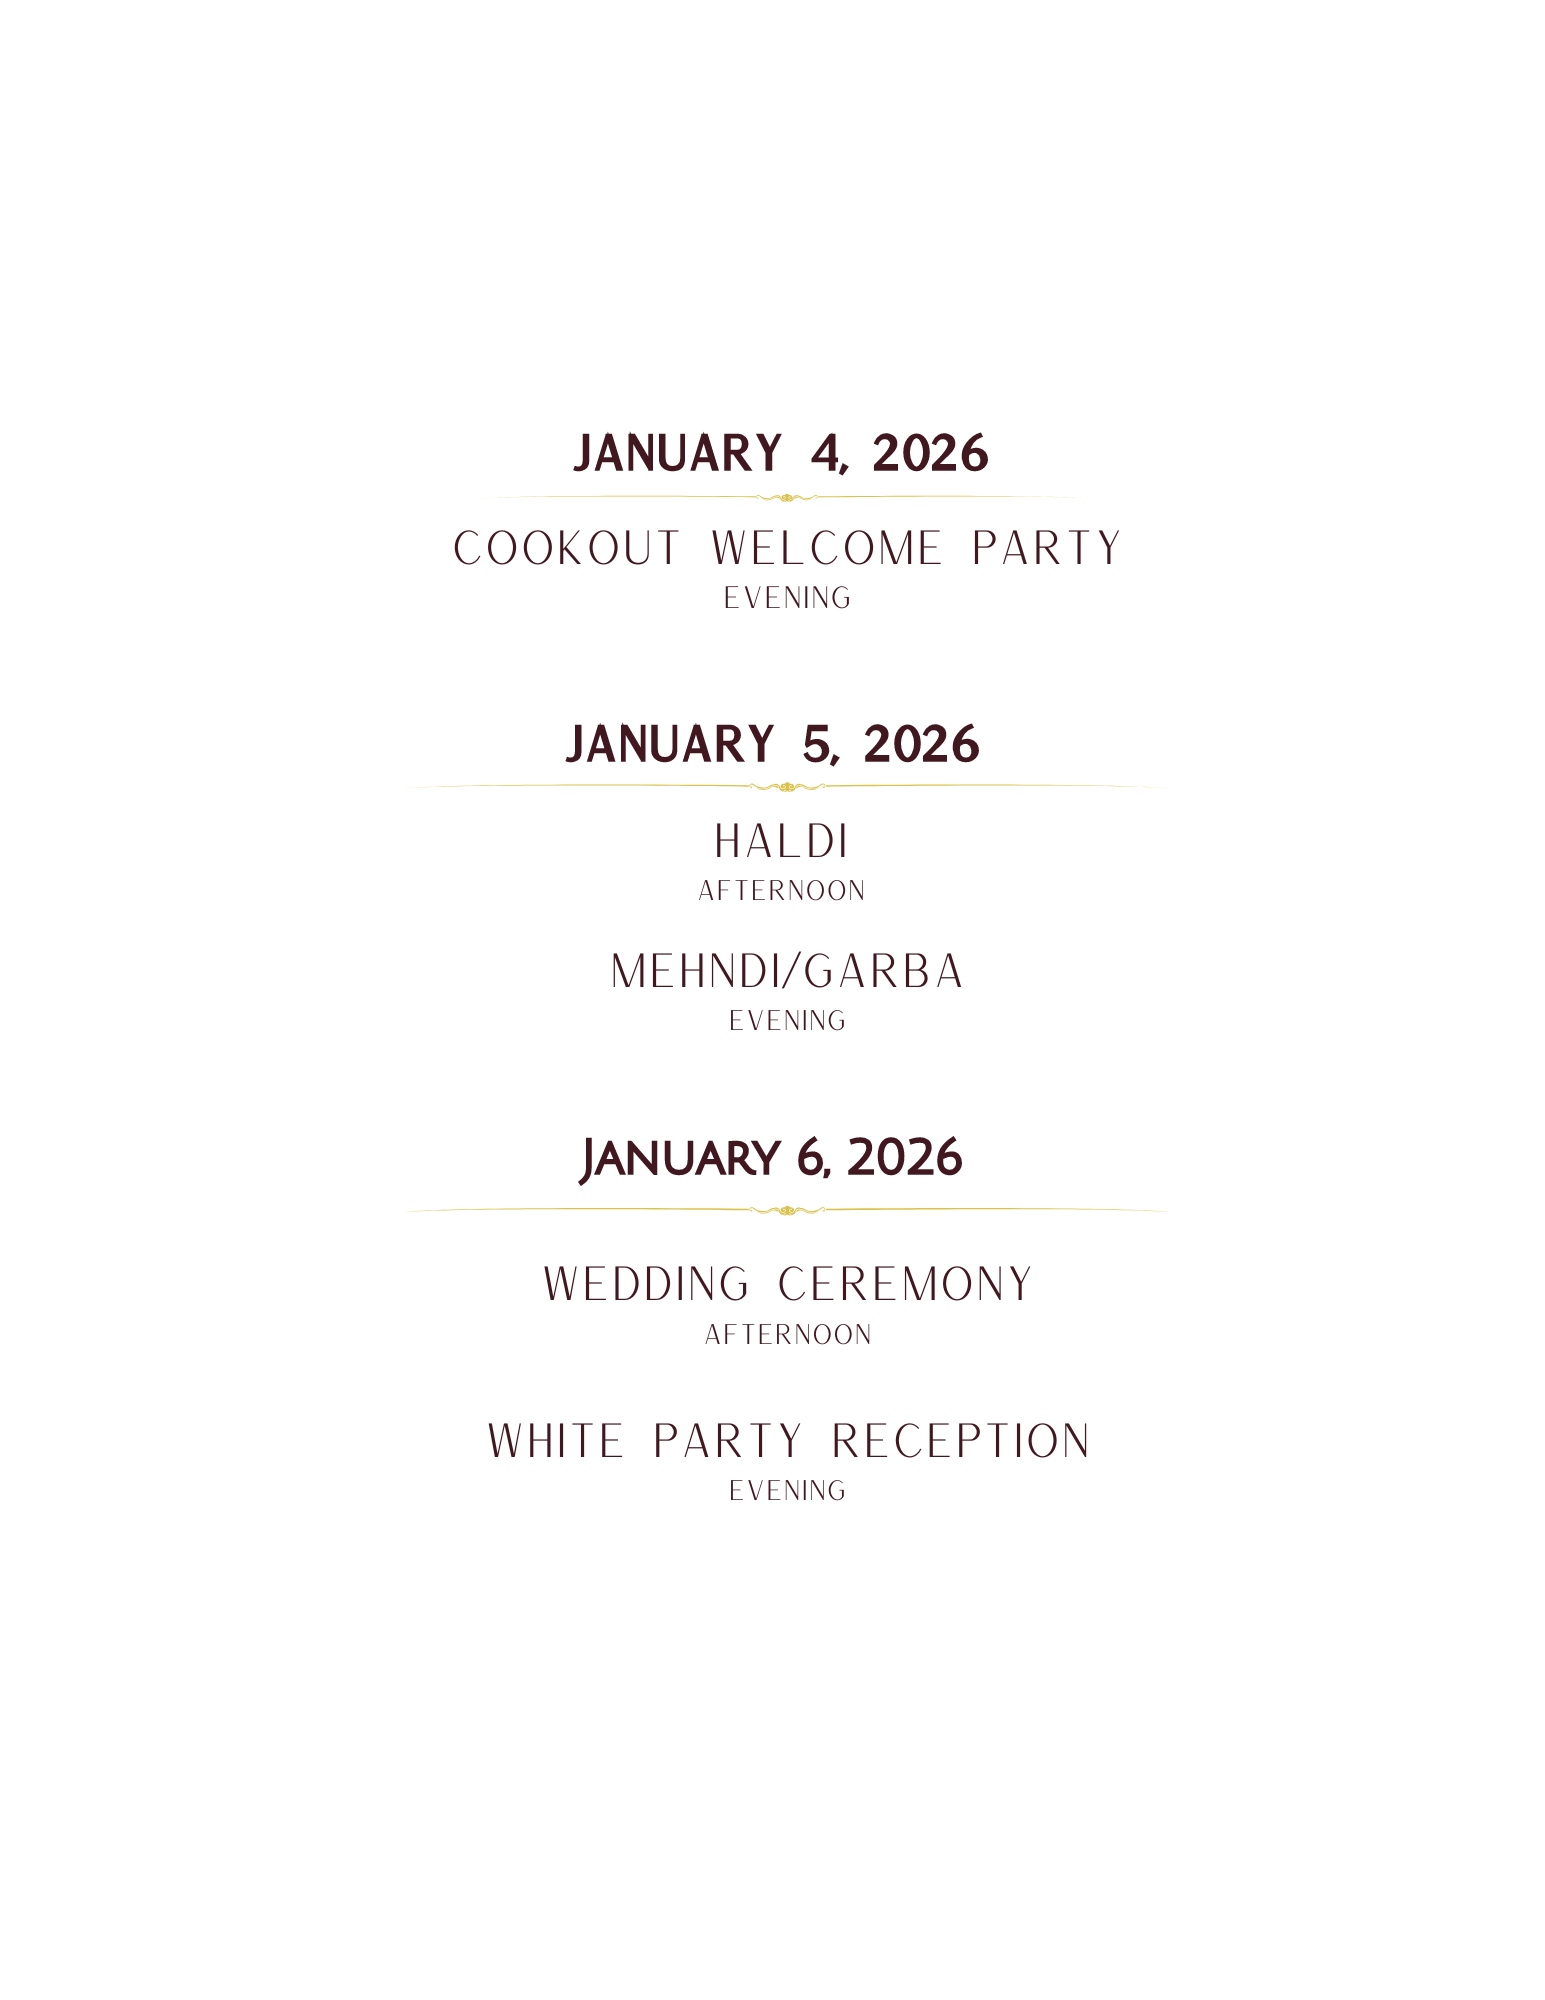
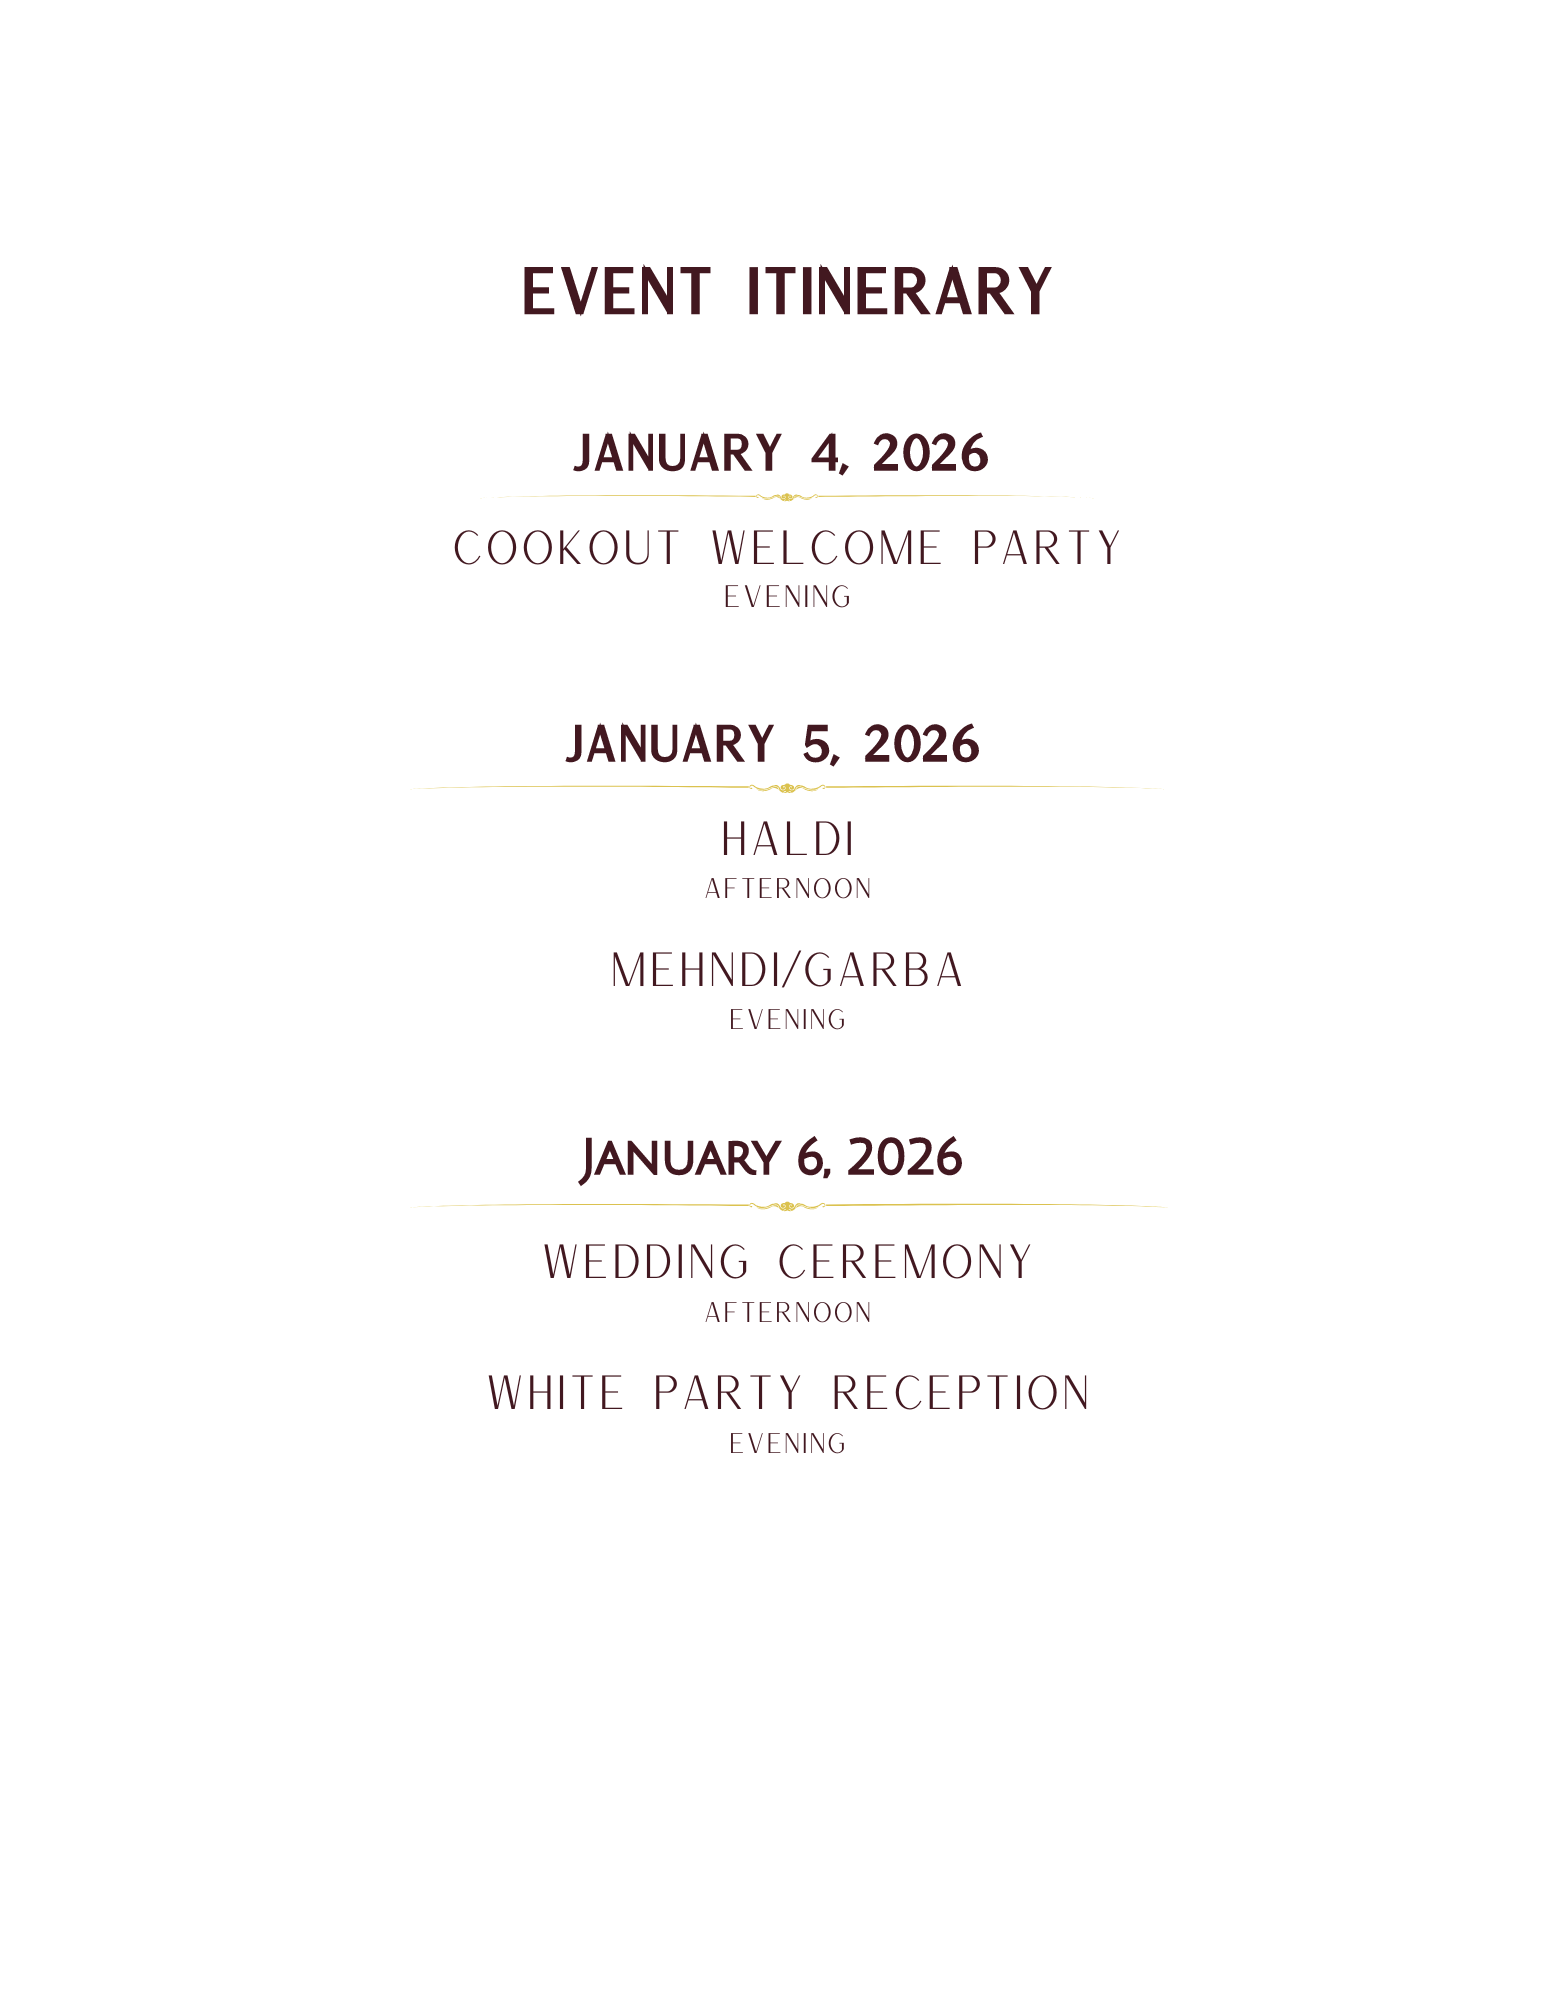
Updates in Java file
Updated page names in .js file and added needed code for showing an active menu when scrolling on the desktop view (but it's still not working properly!)

diff --git a/app.js b/app.js
@@ -15,27 +15,49 @@ menu.addEventListener('click', mobileMenu);
 const highlightMenu = () => {
     const elem = document.querySelector('.highlight')
     const homeMenu = document.querySelector('#home-page')
-    const aboutMenu = document.querySelector('#about-page')
+    const ourStoryMenu = document.querySelector('#ourStory-page')
+    const itineraryMenu = document.querySelector('#itinerary-page')
     const travelMenu = document.querySelector('#travel-page')
+    const eventsMenu = document.querySelector('#events-page')
+    const faqMenu = document.querySelector('#faq-page')
     let scrollPos = window.scrollY // Scroll position
-
+    // console.log(scrollPos)
     // Adds the 'highlight' class to the menu items
-    if(window.innerWidth > 960 && scrollPos < 600) { // only want the highlight feature to show on desktop view
+    if(window.innerWidth > 960 && scrollPos < 200) { // only want the highlight feature to show on desktop view
         homeMenu.classList.add('highlight')
-        aboutMenu.classList.remove('highlight')
+        ourStoryMenu.classList.remove('highlight')
         return
-    }   else if (window.innerWidth > 960 && scrollPos < 1400) {
-        aboutMenu.classList.add('highlight')
+        // for the Our Story page
+    }   else if (window.innerWidth > 960 && scrollPos < 840) {
+        ourStoryMenu.classList.add('highlight')
         homeMenu.classList.remove('highlight')
+        itineraryMenu.classList.remove('highlight')
+        return
+        // for the Itinerary page
+    }   else if (window.innerWidth > 960 && scrollPos < 2800) {
+        itineraryMenu.classList.add('highlight')
+        ourStoryMenu.classList.remove('highlight')
         travelMenu.classList.remove('highlight')
         return
-    }   else if (window.innerWidth > 960 && scrollPos < 2345) {
+        // for the Travel page
+    }   else if (window.innerWidth > 960 && scrollPos < 4100) {
         travelMenu.classList.add('highlight')
-        aboutMenu.classList.remove('highlight')
+        eventsMenu.classList.remove('highlight')
+        itineraryMenu.classList.remove('highlight')
+        return
+        // for the Event Guide page
+    }   else if (window.innerWidth > 960 && scrollPos < 4500) {
+        eventsMenu.classList.add('highlight')
+        travelMenu.classList.remove('highlight')
+        faqMenu.classList.remove('highlight')
+        return
+        // for the FAQ page
+    }   else if (window.innerWidth > 960 && scrollPos < 4900) {
+        faqMenu.classList.add('highlight')
+        eventsMenu.classList.remove('highlight')
         return
     }
-
-    if((elem && window.innerWidth < 960 && scrollPos < 600) || elem) {
+    if((elem && window.innerWidth < 960 && scrollPos < 200) || elem) {
         elem.classList.remove('highlight')
     }
 }

diff --git a/index.html b/index.html
@@ -55,7 +55,7 @@
     </div>
 
     <!-- Our Story -->
-    <div class="main" id="about">
+    <div class="main" id="ourStory">
         <div class="main__container">
             <div class="main__img--container">
                 <div class="main__img--card">ICON</div>
@@ -72,8 +72,8 @@
    <!-- Itinerary Section -->
    <div class="itinerary" id="itinerary">
         <div class="itinerary__container">
-            <h1 class="itinerary__heading">Itinerary</h1>
-            <p class="itinerary__description">Unlimited Possibilites</p>
+            <!-- <h1 class="itinerary__heading">Itinerary</h1>
+            <p class="itinerary__description">Unlimited Possibilites</p> -->
             <img src="images/Wedding Itinerary.png" class="float-image" alt="Itinerary">
         </div>
     </div>

diff --git a/styles.css b/styles.css
@@ -486,7 +486,7 @@
 .itinerary {
     /* background: #131313;
     background: linear-gradient(to right, #161616, #131313); */
-    background-image: url(images/proposal-136.jpg);
+    background-image: url(images/proposal-102.jpg);
     background-size: cover;
     background-position: center;
     background-repeat: no-repeat;
@@ -496,7 +496,6 @@
     /* opacity: 0.7;  */
     padding: 200px 0;
 }
-
 
 .itinerary__container {
     display: flex;
